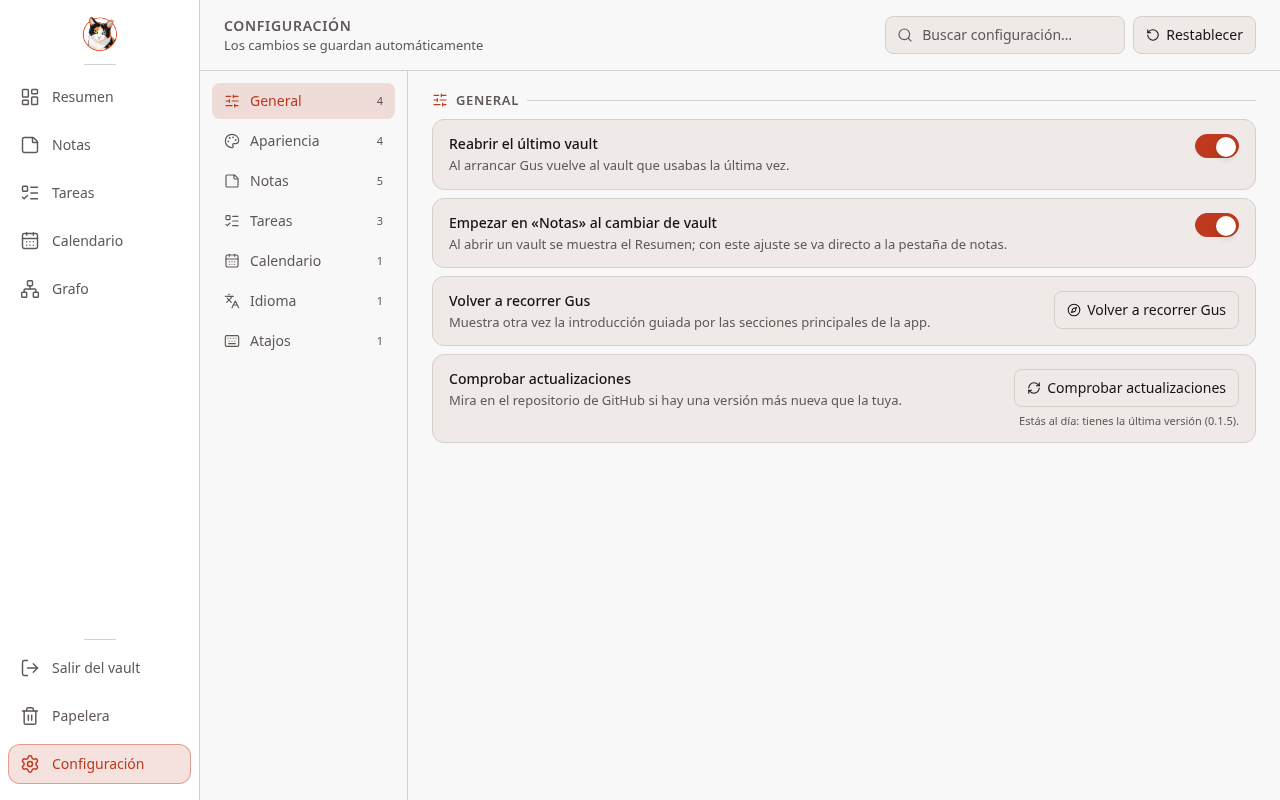
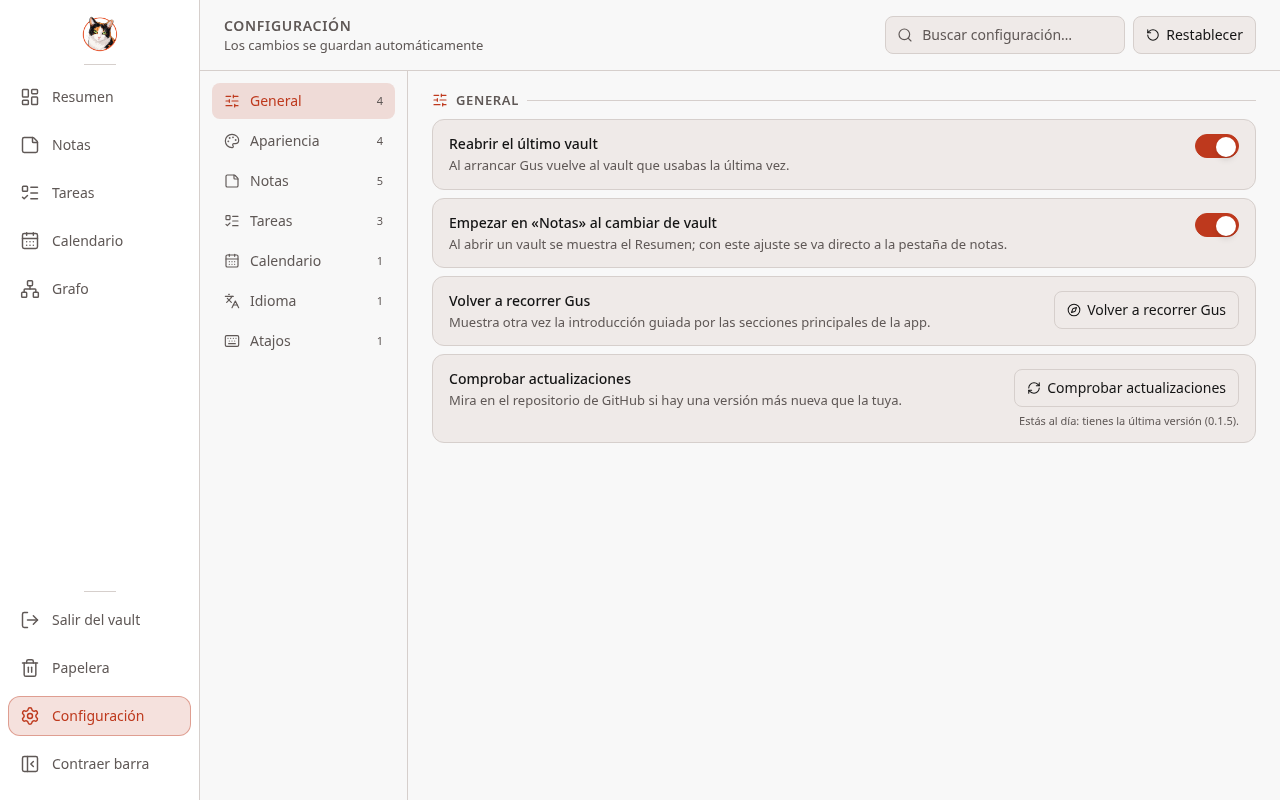
feat(navegacion): botón para contraer y expandir la barra lateral

Changed region(s): [[0.0, 0.8125, 0.1562, 1.0], [0.0312, 0.75, 0.0938, 0.7812]]

diff --git a/src/App.tsx b/src/App.tsx
@@ -19,6 +19,8 @@ import {
   ListTodo,
   LogOut,
   Network,
+  PanelLeftClose,
+  PanelLeftOpen,
   Settings as SettingsIcon,
   StickyNote,
   Trash2,
@@ -1161,6 +1163,17 @@ function App({
     }
   }
 
+  /** Contrae a solo iconos y, al expandir, vuelve al ancho que tenía con etiquetas. */
+  const lastLabeledWidth = useRef(SIDEBAR_DEFAULT_WIDTH);
+  function toggleSidebar() {
+    if (sidebarLabeled) {
+      lastLabeledWidth.current = sidebarWidthRef.current;
+      changeSidebarWidth(SIDEBAR_MIN_WIDTH);
+    } else {
+      changeSidebarWidth(lastLabeledWidth.current);
+    }
+  }
+
   function changeSidebarWidth(width: number, persist = true) {
     const next = clampSidebarWidth(width);
     sidebarWidthRef.current = next;
@@ -1804,6 +1817,25 @@ function App({
                       aria-hidden="true"
                     />
                     {sidebarLabeled && <span className="relative truncate text-sm">{t("app.settings")}</span>}
+                  </button>
+
+                  <button
+                    type="button"
+                    title={t(sidebarLabeled ? "app.collapseSidebar" : "app.expandSidebar")}
+                    aria-label={t(sidebarLabeled ? "app.collapseSidebar" : "app.expandSidebar")}
+                    onClick={toggleSidebar}
+                    className={clsx(
+                      "flex items-center rounded-xl text-gus-muted outline-none transition-colors hover:bg-gus-card hover:text-gus-text",
+                      "focus-visible:ring-2 focus-visible:ring-gus-accent/60",
+                      sidebarLabeled ? "h-10 w-full gap-3 px-3" : "h-11 w-11 justify-center",
+                    )}
+                  >
+                    {sidebarLabeled ? (
+                      <PanelLeftClose className="h-5 w-5" aria-hidden="true" />
+                    ) : (
+                      <PanelLeftOpen className="h-5 w-5" aria-hidden="true" />
+                    )}
+                    {sidebarLabeled && <span className="truncate text-sm">{t("app.collapseSidebar")}</span>}
                   </button>
                 </div>
               </div>

diff --git a/src/lib/i18n/locales/en.ts b/src/lib/i18n/locales/en.ts
@@ -48,6 +48,8 @@ const en: Record<keyof typeof es, string> = {
   "app.leaveVault": "Leave the vault",
   "app.trash": "Trash",
   "app.settings": "Settings",
+  "app.collapseSidebar": "Collapse sidebar",
+  "app.expandSidebar": "Expand sidebar",
   "app.loadingNote": "Loading note…",
   "tabs.label": "Open notes",
   "tabs.close": "Close {name}",

diff --git a/src/lib/i18n/locales/es.ts b/src/lib/i18n/locales/es.ts
@@ -46,6 +46,8 @@ export default {
   "app.leaveVault": "Salir del vault",
   "app.trash": "Papelera",
   "app.settings": "Configuración",
+  "app.collapseSidebar": "Contraer barra",
+  "app.expandSidebar": "Expandir barra",
   "app.loadingNote": "Cargando nota…",
   "tabs.label": "Notas abiertas",
   "tabs.close": "Cerrar {name}",

diff --git a/rework.md b/rework.md
@@ -73,7 +73,7 @@ Formato: `[ ]` pendiente · `[x]` hecho. IDs estables (`R-`, `D-`, `C-`, `T-`, `
 
 `task/` mezcla requisitos, bugs y revisiones en cinco ficheros. Propuesta: un único backlog (este `rework.md`) con los IDs de arriba, y los ficheros de `task/` como notas de origen.
 
-- [x] **P-01 Estado desactualizado.** *REQ-12 marcado (recordatorios y antelación; falta el aviso de la nota del día). `interfaz.md` REQ-06: marcados ajuste de ancho y texto en los botones; falta el botón de expandir/retraer.* `task/features.md` REQ-12 (notificaciones) sigue sin marcar, pero ya está en `0.1.3` (commit `80c888f`). REQ-05 a REQ-08 están marcados como hechos, y el commit `53ad5a8` de búsqueda los confirma.
+- [x] **P-01 Estado desactualizado.** *REQ-12 marcado (recordatorios y antelación; falta el aviso de la nota del día). `interfaz.md` REQ-06: marcados ajuste de ancho y texto en los botones; botón de contraer/expandir añadido (REQ-06 completo).* `task/features.md` REQ-12 (notificaciones) sigue sin marcar, pero ya está en `0.1.3` (commit `80c888f`). REQ-05 a REQ-08 están marcados como hechos, y el commit `53ad5a8` de búsqueda los confirma.
 - [ ] **P-02 Conflicto de principios. En pausa (decidido: no avanzar de momento).** `task/features.md` REQ-01 (Google Calendar y Drive) choca con "sin nube, sin cuentas, sin telemetría" de `AGENTS.md` y `PRIVACY.md`. Decidir antes de diseñar nada: cambiar el principio de forma explícita o descartar la integración.
 - [ ] **P-03 Solapamiento.** REQ-10 (carpeta compartida) y REQ-13 (watcher de archivos externos) necesitan el mismo watcher de `notify`. Implementarlos juntos.
 - [ ] **P-04 Solapamiento en tareas.** REQ-09 (checkboxes en notas sincronizados con `.gus-tasks.json`) y REQ-11 (subtareas y dependencias) tocan el mismo modelo de tarea. Definir el modelo una sola vez.
